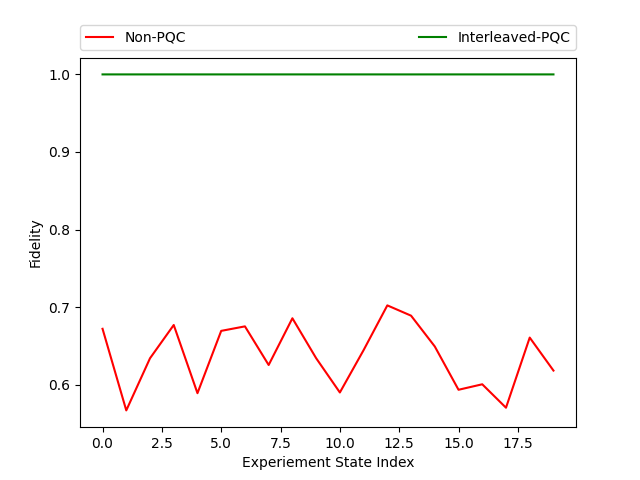
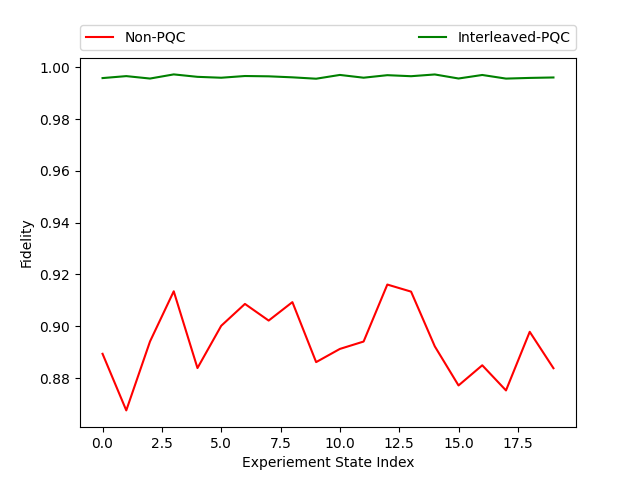
CNOT to CX change for uniformity.

diff --git a/scripts/train_tokenize_circuits_mp.py b/scripts/train_tokenize_circuits_mp.py
@@ -17,7 +17,7 @@ import json
 from qiskit import QuantumCircuit
 from qiskit.qasm2 import dumps
 
-from pqcqec.experiment.pqc_experiment import pqc_experiment_runner
+from pqcqec.experiment.pqc_experiment import pqc_experiment_runner, pqc_experiment_custom_statevec_runner
 from pqcqec.circuits.generate import create_qiskit_circuit_from_ops
 
 from pqcqec.utils.args import get_all_valid_args, parse_args
@@ -126,7 +126,7 @@ def process_seed(args):
     snap_before = _proc_snapshot()
 
     try:
-        base_circ, pqc_circ, mean_fidelity_ideal_pqc, pqc_params = pqc_experiment_runner(
+        base_circ, pqc_circ, mean_fidelity_ideal_pqc, pqc_params = pqc_experiment_custom_statevec_runner(
             num_qubits=qubit,
             num_gates=gate,
             gate_blocks=gate_blocks,
@@ -154,10 +154,18 @@ def process_seed(args):
         }
 
     # Persist results and return compact status
+    # Handle pqc_params - could be dict or array depending on model
+    if isinstance(pqc_params, dict):
+        pqc_params_serializable = pqc_params
+    elif hasattr(pqc_params, 'tolist'):
+        pqc_params_serializable = pqc_params.tolist()
+    else:
+        pqc_params_serializable = pqc_params
+    
     token_data = {
         'seed': seed,
         'fidelity': mean_fidelity_ideal_pqc,
-        'pqc_params': pqc_params.tolist(),
+        'pqc_params': pqc_params_serializable,
         'base_circuit_tokens': base_circ,
         'pqc_circuit_tokens': pqc_circ,
         'base_circuit_qasm': dumps(create_qiskit_circuit_from_ops(base_circ, qubit)),

diff --git a/pqcqec/circuits/templates.py b/pqcqec/circuits/templates.py
@@ -28,7 +28,7 @@ class CircuitTemplate:
         Add a gate to the template.
         
         Args:
-            gate_name: Name of the gate (e.g., 'rx', 'rz', 'cnot')
+            gate_name: Name of the gate (e.g., 'rx', 'rz', 'cx')
             qubits: List of qubit indices the gate acts on
             param_source: Source of parameter (e.g., 'x_noise', 'pre_params', 'base')
             param_idx: Index into the parameter source array
@@ -130,9 +130,9 @@ def build_pqc_circuit_template(base_ops: List[Tuple],
             # ZZ entangling gates (ring topology)
             for q in range(num_qubits):
                 j = (q + 1) % num_qubits
-                template.add_gate('cnot', [q, j])
+                template.add_gate('cx', [q, j])
                 template.add_gate('rz', [j], param_source='theta_zz', param_idx=q)
-                template.add_gate('cnot', [q, j])
+                template.add_gate('cx', [q, j])
             
             # Post-local unitaries
             for q in range(num_qubits):

diff --git a/scripts/plot_fidelity_experiement.py b/scripts/plot_fidelity_experiement.py
@@ -12,7 +12,7 @@ from pqcqec.utils.args import get_all_valid_args, parse_args
 
 def main():
     # Parse command line arguments
-    required_args = ['qubit_range', 'gate_range', 'gate_blocks', 'pqc_blocks', 'epochs', 'num_data', 'num_test', 'gate_dist', 'gpu', 'seed', 'batch', 'figure_output']
+    required_args = ['qubit_range', 'gate_range', 'gate_blocks', 'pqc_blocks', 'epochs', 'num_data', 'num_test', 'gate_dist', 'gpu', 'seed', 'batch', 'figure_output', 'uncomp']
     script_description = 'Train an Interleaved PQC model for a specific qubit and gate configuration and plot the test experiment results.'
     args = parse_args(required_args, script_description=script_description)
 
@@ -31,7 +31,8 @@ def main():
         gpu=config['gpu'],
         seed=seed,
         batch_size=config['batch'],
-        return_fidelity=True
+        return_fidelity=True,
+        add_uncomputation=config['uncomp']
     )
 
     print(f"Final Fidelity (Noisy): {np.mean(fidelity_noisy):.4e}")

diff --git a/pqcqec/circuits/pqc_circuits.py b/pqcqec/circuits/pqc_circuits.py
@@ -23,10 +23,10 @@ def list_LEL_ZZ(num_qubits:int, pre_params:np.ndarray, theta_zz: np.ndarray, pos
     # ZZ entangling gates
     for i in range(num_qubits):
         j = (i + 1) % num_qubits  # Assuming a ring topology
-        # RZZ(θ) = CNOT-RZ(θ)-CNOT
-        pqc_circuit_ops.append(('cnot', [i, j], []))
+        # RZZ(θ) = CX-RZ(θ)-CX
+        pqc_circuit_ops.append(('cx', [i, j], []))
         pqc_circuit_ops.append(('rz', [j], [theta_zz[i]] ))
-        pqc_circuit_ops.append(('cnot', [i, j], []))
+        pqc_circuit_ops.append(('cx', [i, j], []))
 
     # Post-local unitaries
     for i in range(num_qubits):

diff --git a/pqcqec/simulate/jax_statevector.py b/pqcqec/simulate/jax_statevector.py
@@ -142,7 +142,7 @@ def apply_rz(state: jnp.ndarray, n_qubits: int, q: int, theta: float) -> jnp.nda
 
 @partial(jax.jit, static_argnums=(1, 2, 3))
 def apply_cx(state: jnp.ndarray, n_qubits: int, control: int, target: int) -> jnp.ndarray:
-    """Apply CNOT gate with specified control and target qubits."""
+    """Apply CX gate with specified control and target qubits."""
     dim = state.shape[0]
     control_bit_pos = n_qubits - 1 - control
     target_bit_pos = n_qubits - 1 - target

diff --git a/pqcqec/experiment/pqc_experiment.py b/pqcqec/experiment/pqc_experiment.py
@@ -317,7 +317,7 @@ def pqc_experiment_custom_statevec_runner(
         # Generate them using the base circuit without noise
         # print("Generating ideal target states for training...")
         
-        train_lel_zz_custom_statevec_no_uncomp(model, ideal_train_outputs, train_dataloader, 
+        train_lel_zz_custom_statevec_no_uncomp(model, train_dataloader, 
                                                optimizer, schedule, epochs=epochs)
 
     # Test the model

diff --git a/tests/test_theta_gradients.py b/tests/test_theta_gradients.py
@@ -128,7 +128,7 @@ def test_theta_zz_gradients():
     zz_ops = []
     for i, op in enumerate(circuit_tokens):
         gate, qubits, params_list = op
-        if gate == 'cnot':
+        if gate == 'cx':
             # Check if next gate is RZ (potential ZZ layer)
             if i + 1 < len(circuit_tokens):
                 next_gate, next_qubits, next_params = circuit_tokens[i + 1]

diff --git a/tests/test_zz_gate.py b/tests/test_zz_gate.py
@@ -79,9 +79,9 @@ def test_zz_gate():
     # Create circuit operations for ZZ
     circuit_ops = [
         ('h', [0], []),
-        ('cnot', [0, 1], []),
+        ('cx', [0, 1], []),
         ('rz', [1], [theta]),
-        ('cnot', [0, 1], []),
+        ('cx', [0, 1], []),
     ]
     
     gate_ids, wire1s, wire2s, thetas = build_jax_circuit(circuit_ops)

diff --git a/pqcqec/utils/constants.py b/pqcqec/utils/constants.py
@@ -57,6 +57,5 @@ GATE_DICT = {
     'ry': GateEnums.GATE_RY,
     'rz': GateEnums.GATE_RZ,
     'cx': GateEnums.GATE_CX,
-    'cnot': GateEnums.GATE_CX,  # alias for cx
     'cz': GateEnums.GATE_CZ
 }
